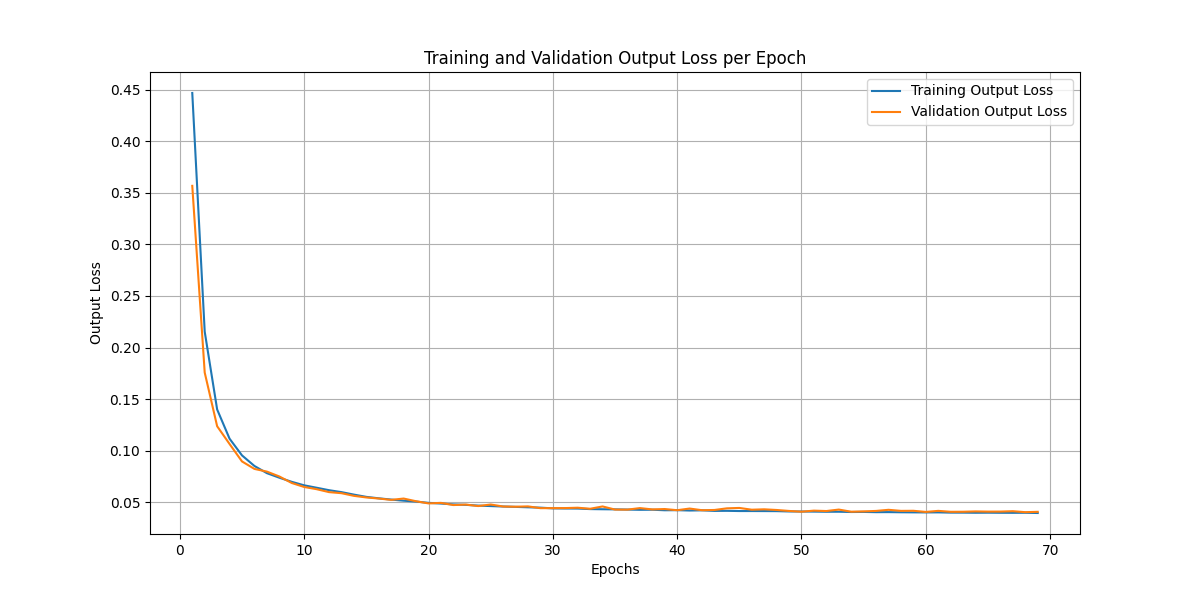
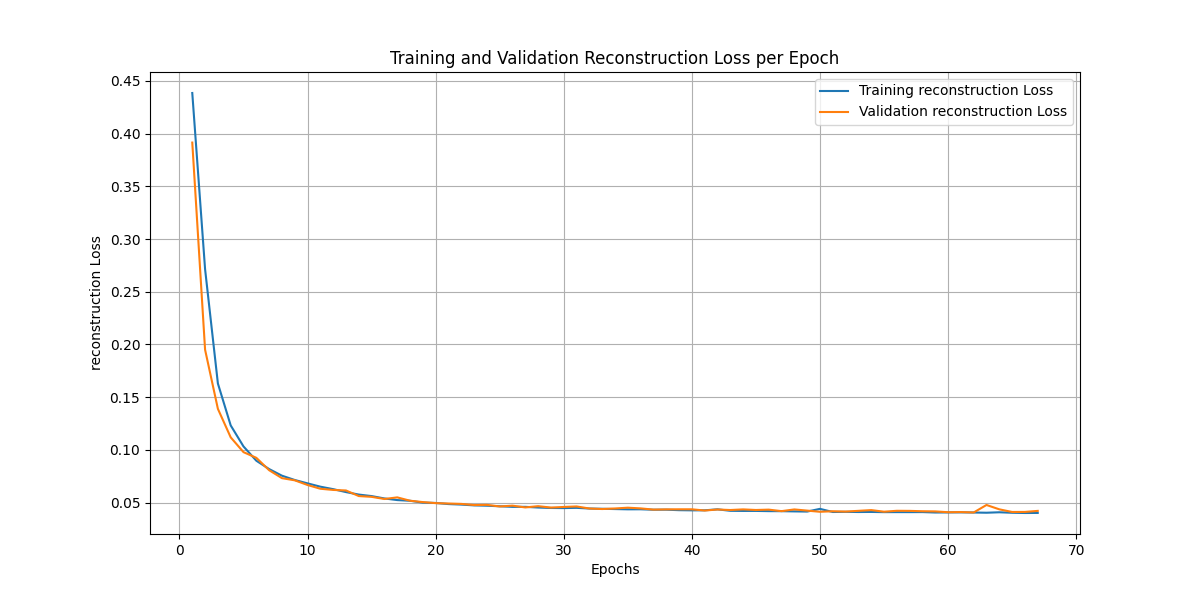
Spell checked README file

diff --git a/recognition/s4635974_VQVAE/train.py b/recognition/s4635974_VQVAE/train.py
@@ -305,7 +305,7 @@ def train_model(
 
     # After training, save the lists to a file
     data = {
-        " training_reconstruction_loss": epoch_training_reconstruction_loss,
+        "training_reconstruction_loss": epoch_training_reconstruction_loss,
         "training_vq_loss": epoch_training_vq_loss,
         "validation_reconstruction_loss": epoch_validation_reconstruction_loss,
         "validation_vq_loss": epoch_validation_vq_loss,
@@ -321,8 +321,8 @@ def train_model(
 
         # 1. Plot Training reconstruction Loss vs. Validation reconstruction Loss
         plt.figure(figsize=(12, 6))  # Width of normal page
-        plt.plot(epochs, epoch_training_reconstruction_loss, label='Training reconstruction Loss')
-        plt.plot(epochs, epoch_validation_reconstruction_loss, label='Validation reconstruction Loss')
+        plt.plot(epochs, epoch_training_reconstruction_loss, label='Training Reconstruction Loss')
+        plt.plot(epochs, epoch_validation_reconstruction_loss, label='Validation Reconstruction Loss')
         plt.xlabel('Epochs')
         plt.ylabel('reconstruction Loss')
         plt.title('Training and Validation Reconstruction Loss per Epoch')

diff --git a/recognition/s4635974_VQVAE/data_visualisation.py b/recognition/s4635974_VQVAE/data_visualisation.py
@@ -14,7 +14,7 @@ with open(open_dir, 'rb') as f:
     data = pickle.load(f)
 
 # Access the lists
-training_reconstruction_loss = data["training_reconstruction_loss"]
+training_reconstruction_loss = data[" training_reconstruction_loss"]
 training_vq_loss = data["training_vq_loss"]
 validation_reconstruction_loss = data["validation_reconstruction_loss"]
 validation_vq_loss = data["validation_vq_loss"]

diff --git a/recognition/s4635974_VQVAE/README.md b/recognition/s4635974_VQVAE/README.md
@@ -100,18 +100,18 @@ Without further pre-processing I was able to achieve our goal of over 0.6 SSIM a
 ### Training
 The model was trained with the above parameters. I experimented with varying the learning rate and batch size and found the above hyperparameters to give the best accuracy in the least amount of training time (without the training becoming unstable). Early stopping was used [5] to stop the training when there was no further improvement in validation loss. This can help avoid overfitting and save on computational resources. Little improvement was achieved beyond 60 epochs (I tried training the model for a maximum of 200 epochs). 
 
-#### Training and Validation output losses (reconstruction loss)
+#### Training and Validation Reconstruction Losses
 ![Training and validation output loss](report_images/output_loss_per_epoch.png)
 
-*Figure 4. Training and Validation Output Loss (Reconstruction Loss) over epochs*
+*Figure 4. Training and Validation Reconstruction Losses Over Epochs*
 
-Figure 4 shows the training and validation output losses from the decoder (reconstruction loss) reduce over each epoch. This demonstrates that the model is learning well.
+Figure 4 shows the training and validation reconstruction losses from the decoder reduce over each epoch. This demonstrates that the model is learning well.
 
-![Training and validation output loss zoomed](report_images/training_output_loss_zoomed.png)
+![Training and validation Reconstruction Losses zoomed](report_images/training_output_loss_zoomed.png)
 
-*Figure 5. Training and Validation Output Loss (Reconstruction Loss) over epochs - zoomed in*
+*Figure 5. Training and Validation Reconstruction Losses Over Epochs - Zoomed in*
 
-Zooming in (Figure 5) we can see that the validation loss fits closely to the train loss, indicating that the model is not overfitting. 
+Zooming in (Figure 5) we can see that the validation reconstruction loss fits closely to the training reconstruction loss, indicating that the model is not overfitting. 
 
 #### Training and Validation VQ losses
 ![VQ loss](report_images/vq_loss_per_epoch.png)
@@ -173,7 +173,7 @@ All dependencies are listed below. To reproduce results, these dependencies must
   
 - The dataset will need to be split into files for training (~ 90%), validation (~ 5%), and testing (~ 5%).
   
-- Ensure the file paths for training, validation, and testing are stroed in `train_dir` , `validate_dir` , and `test_dir` variables respectively, found in `tain.py` and `predict.py`.
+- Ensure the file paths for training, validation, and testing are stored in `train_dir` , `validate_dir` , and `test_dir` variables respectively, found in `tain.py` and `predict.py`.
 
 ### Running the Model and Reproducing Results
 
